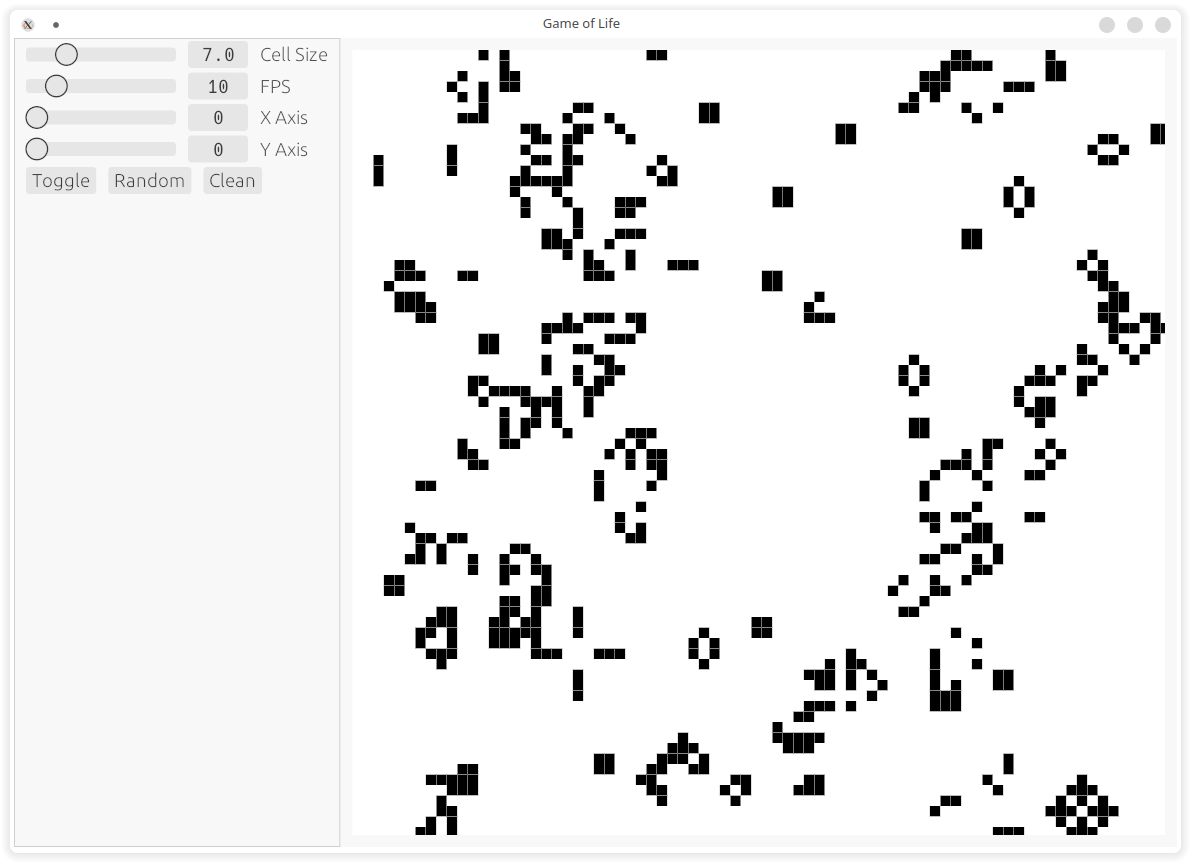
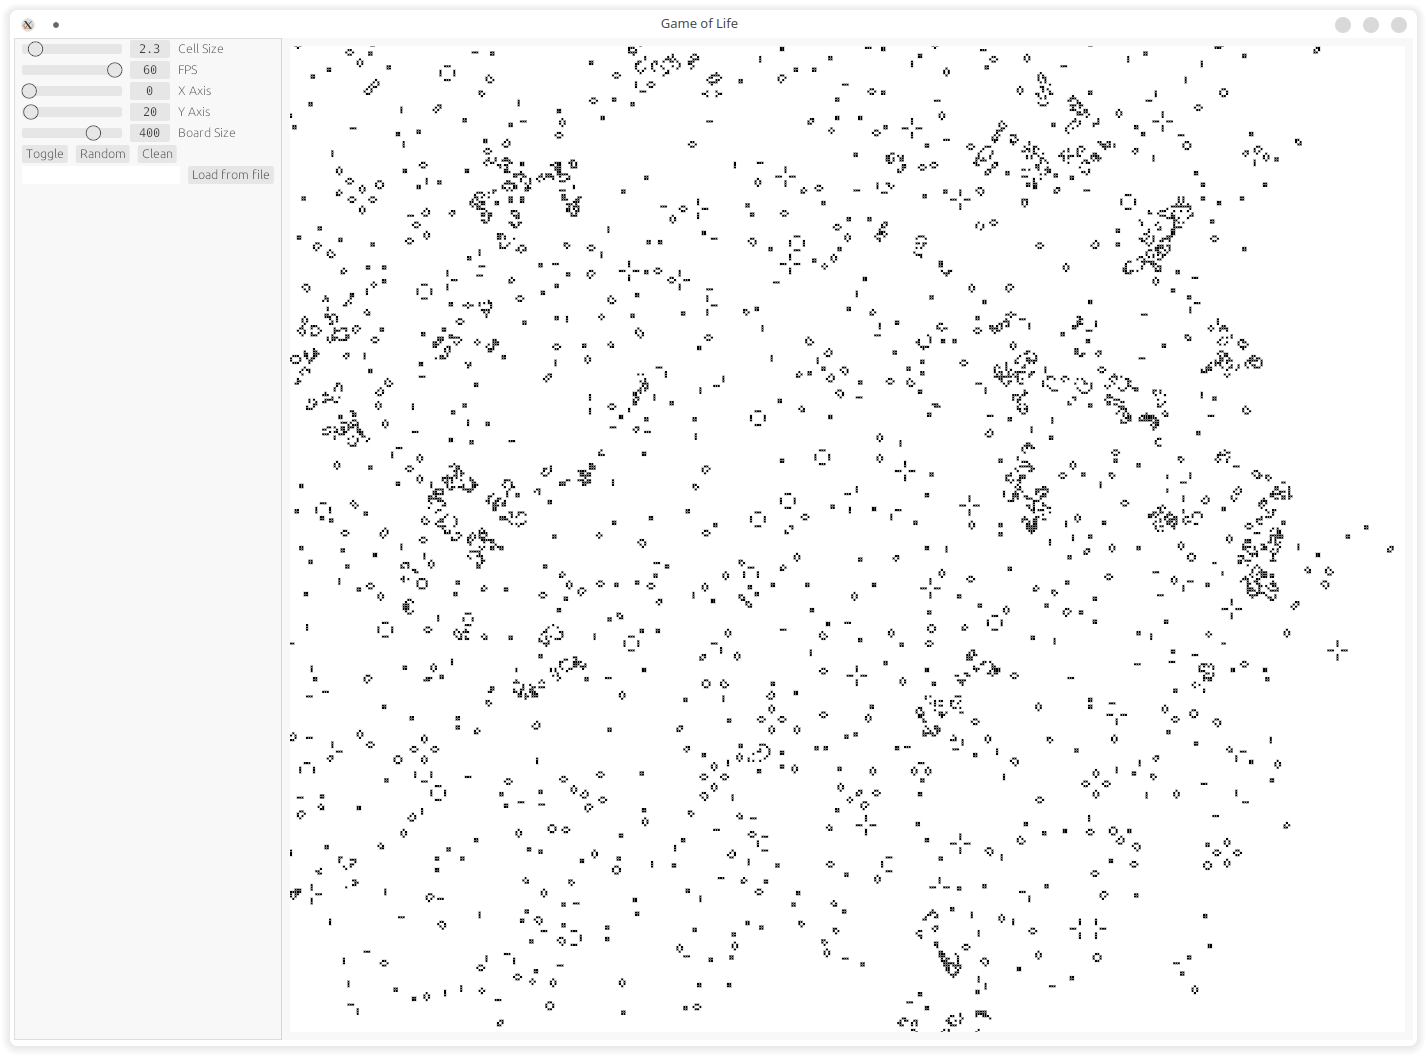
Improved performance and more options

diff --git a/src/app.rs b/src/app.rs
@@ -7,8 +7,9 @@ use board::Board;
 #[cfg_attr(feature = "persistence", serde(default))] // if we add new fields, give them default values when deserializing old state
 pub struct App {
     board: Board,
-    first_time: bool,
     running: bool,
+    filename: String,
+    rect: Option<egui::Rect>,
 }
 
 impl Default for App {
@@ -17,8 +18,9 @@ impl Default for App {
         b.generate_from_file("glider.txt");
         Self {
             board: b,
-            first_time: true,
             running: false,
+            filename: "".to_owned(),
+            rect: None,
         }
     }
 }
@@ -78,6 +80,11 @@ impl epi::App for App {
                    .orientation(egui::SliderOrientation::Horizontal)
                    .text("Y Axis"),
             );
+            ui.add(egui::Slider::new(&mut self.board.b_size, 100..=500)
+                   .step_by(1.0)
+                   .orientation(egui::SliderOrientation::Horizontal)
+                   .text("Board Size"),
+            );
 
             ui.horizontal(|ui| {
                 if ui.add(egui::Button::new("Toggle")).clicked() {
@@ -85,11 +92,22 @@ impl epi::App for App {
                 }
                 if ui.add(egui::Button::new("Random")).clicked() {
                     self.board.generate_random();
+                    self.board.center_cells(self.rect.unwrap());
                 }
                 if ui.add(egui::Button::new("Clean")).clicked() {
                     self.board.clean();
                 }
-            })
+            });
+
+            ui.horizontal(|ui| {
+                ui.add(egui::TextEdit::singleline(&mut self.filename)
+                    .desired_width(150.0)
+                );
+                if ui.add(egui::Button::new("Load from file")).clicked() {
+                    self.board.generate_from_file(&self.filename);
+                    self.board.center_cells(self.rect.unwrap());
+                }
+            });
         });
         egui::CentralPanel::default().show(ctx, |ui| {
             let painter = egui::Painter::new(
@@ -98,13 +116,9 @@ impl epi::App for App {
                     ui.available_rect_before_wrap()
                 );
             ui.expand_to_include_rect(painter.clip_rect());
-            let rect = painter.clip_rect();
-            let mut shapes = vec![egui::Shape::rect_filled(rect, egui::Rounding::none(), egui::Color32::WHITE)];
-            if self.first_time {
-                self.board.center_cells(rect);
-                self.first_time = false;
-            }
-            self.board.generate_cells(&mut shapes, rect);
+            self.rect = Some(painter.clip_rect());
+            let mut shapes = vec![egui::Shape::rect_filled(self.rect.unwrap(), egui::Rounding::none(), egui::Color32::WHITE)];
+            self.board.generate_cells(&mut shapes, self.rect.unwrap());
             painter.extend(shapes);
             if self.running {
                 self.board.update();

diff --git a/src/app/board/mod.rs b/src/app/board/mod.rs
@@ -25,7 +25,7 @@ pub struct Board {
     pub cell_size: f32,
     pub x_axis: i32,
     pub y_axis: i32,
-    b_size: i32,
+    pub b_size: i32,
     cells: HashSet<Pos>,
     last_frame_time: Instant,
 }
@@ -84,14 +84,17 @@ impl Board {
         if duration_since_last_frame.as_millis().lt(&self.speed) {
             return;
         }
-        let (min_x, min_y) = self.find_min();
-        let (max_x, max_y) = self.find_max();
         let mut n_cells = HashSet::new();
-        for col in min_x-2..=max_x+2 {
-            for row in min_y-2..=max_y+2 {
-                let n = self.neighbours(&Pos(col as i32, row as i32));
-                if (n == 2 && self.cells.contains(&Pos(col as i32, row as i32))) || n == 3 {
-                    n_cells.insert(Pos(col, row));
+        let mut checked = HashSet::new();
+        for el in &self.cells {
+            for step in NEIGHBOURHOOD {
+                let xy = Pos(el.0+step.0, el.1+step.1);
+                if !checked.contains(&xy) {
+                    checked.insert(xy);
+                    let n = self.neighbours(&xy);
+                    if (n == 2 && self.cells.contains(&xy)) || n == 3 {
+                        n_cells.insert(xy);
+                    }
                 }
             }
         }
@@ -159,6 +162,10 @@ impl Board {
     }
 
     pub fn generate_from_file(&mut self, f: &str) {
+        if fs::read_to_string(f).is_err() {
+            println!("Error reading from file");
+            return;
+        };
         let contents = fs::read_to_string(f)
             .expect("Error reading from file");
 
